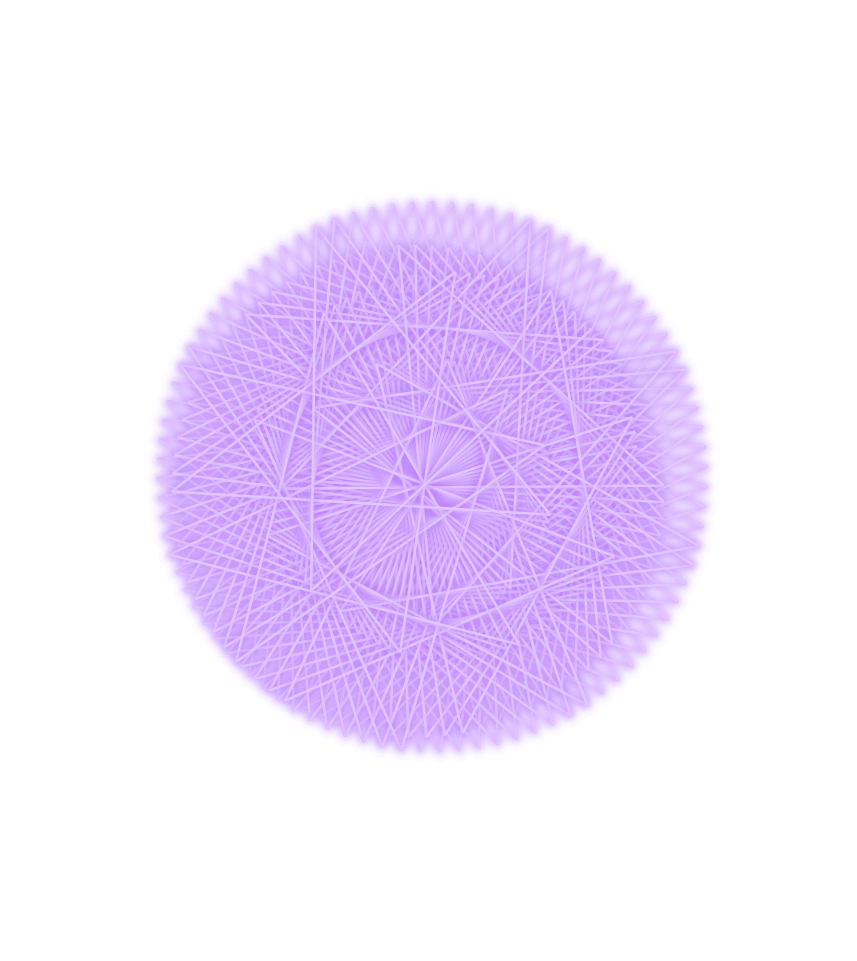
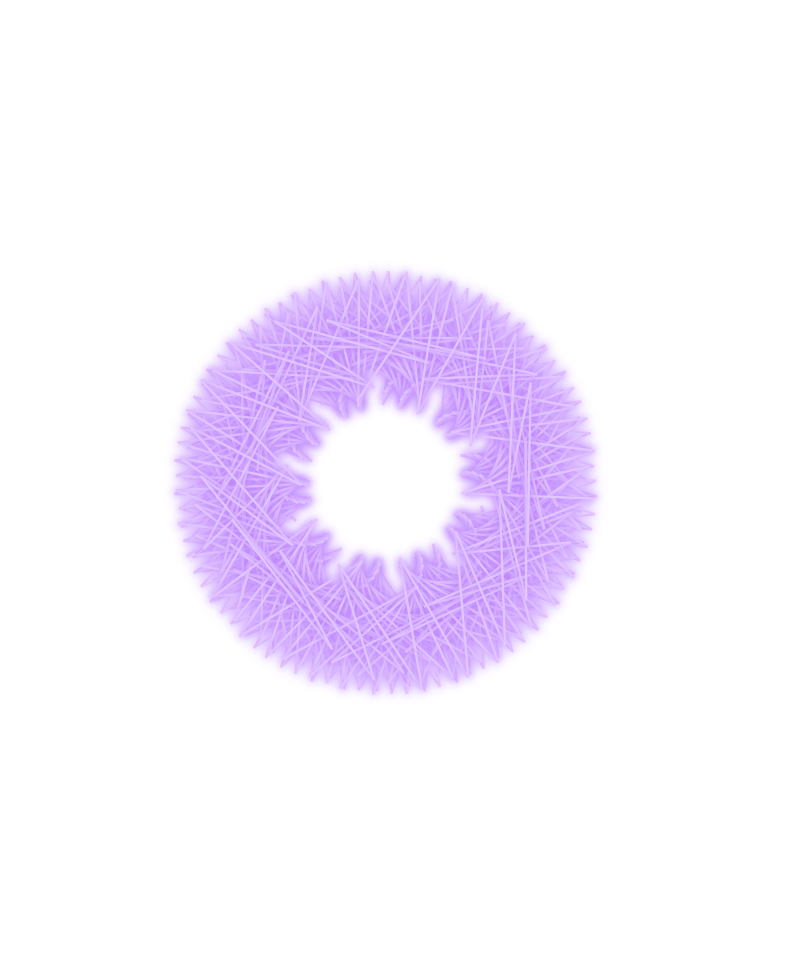
before adding indices to cycloids

Changed region(s): [[0.1805, 0.1873, 0.8421, 0.8117]]

diff --git a/src/App.tsx b/src/App.tsx
@@ -143,6 +143,8 @@ function useAnimateMenuToggling(
   const originalShowCycloid = useRef<boolean | undefined>(undefined);
 
   const handleOnRelationshipEditorToggle = useCallback(() => {
+    cycloidControls.current.scaffold = "Showing";
+
     let animateSpeed = cycloidControls.current.animationSpeed;
     let change = animateSpeed * 0.05;
 
@@ -170,6 +172,8 @@ function useAnimateMenuToggling(
   }, []);
 
   const handleOnControlsToggle = useCallback(() => {
+    cycloidControls.current.scaffold = "Showing";
+
     /**
      * This toggle is guaranteed to be toggled after the other one.
      * So no worries about any of them being undefined.
